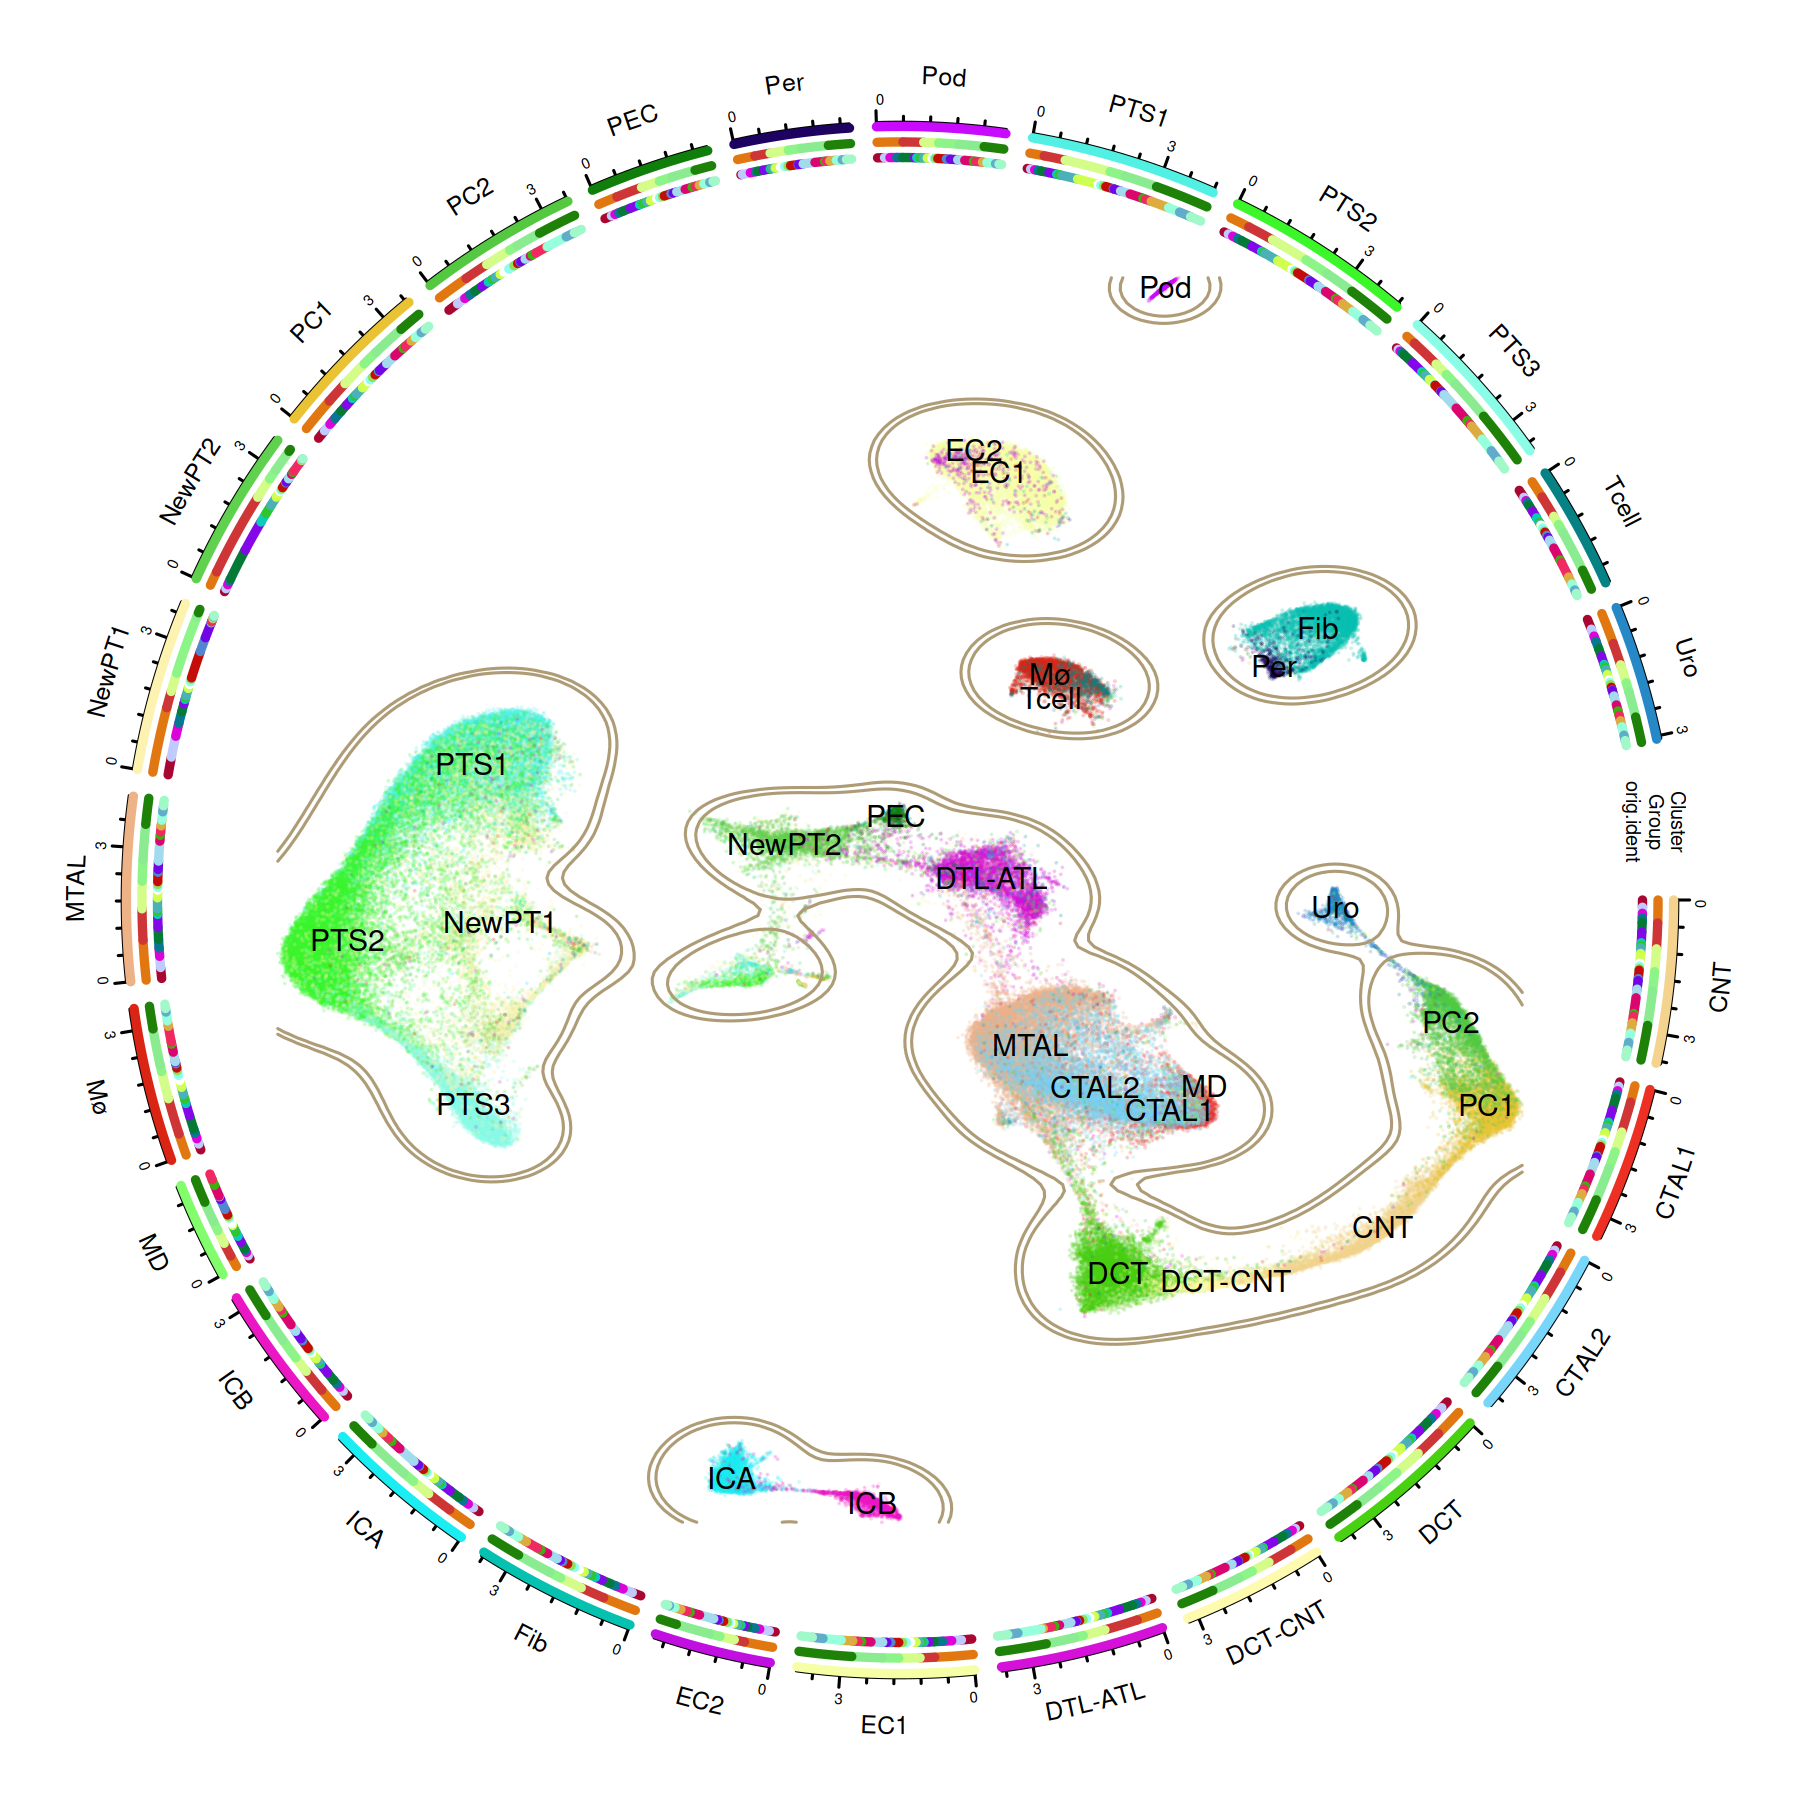
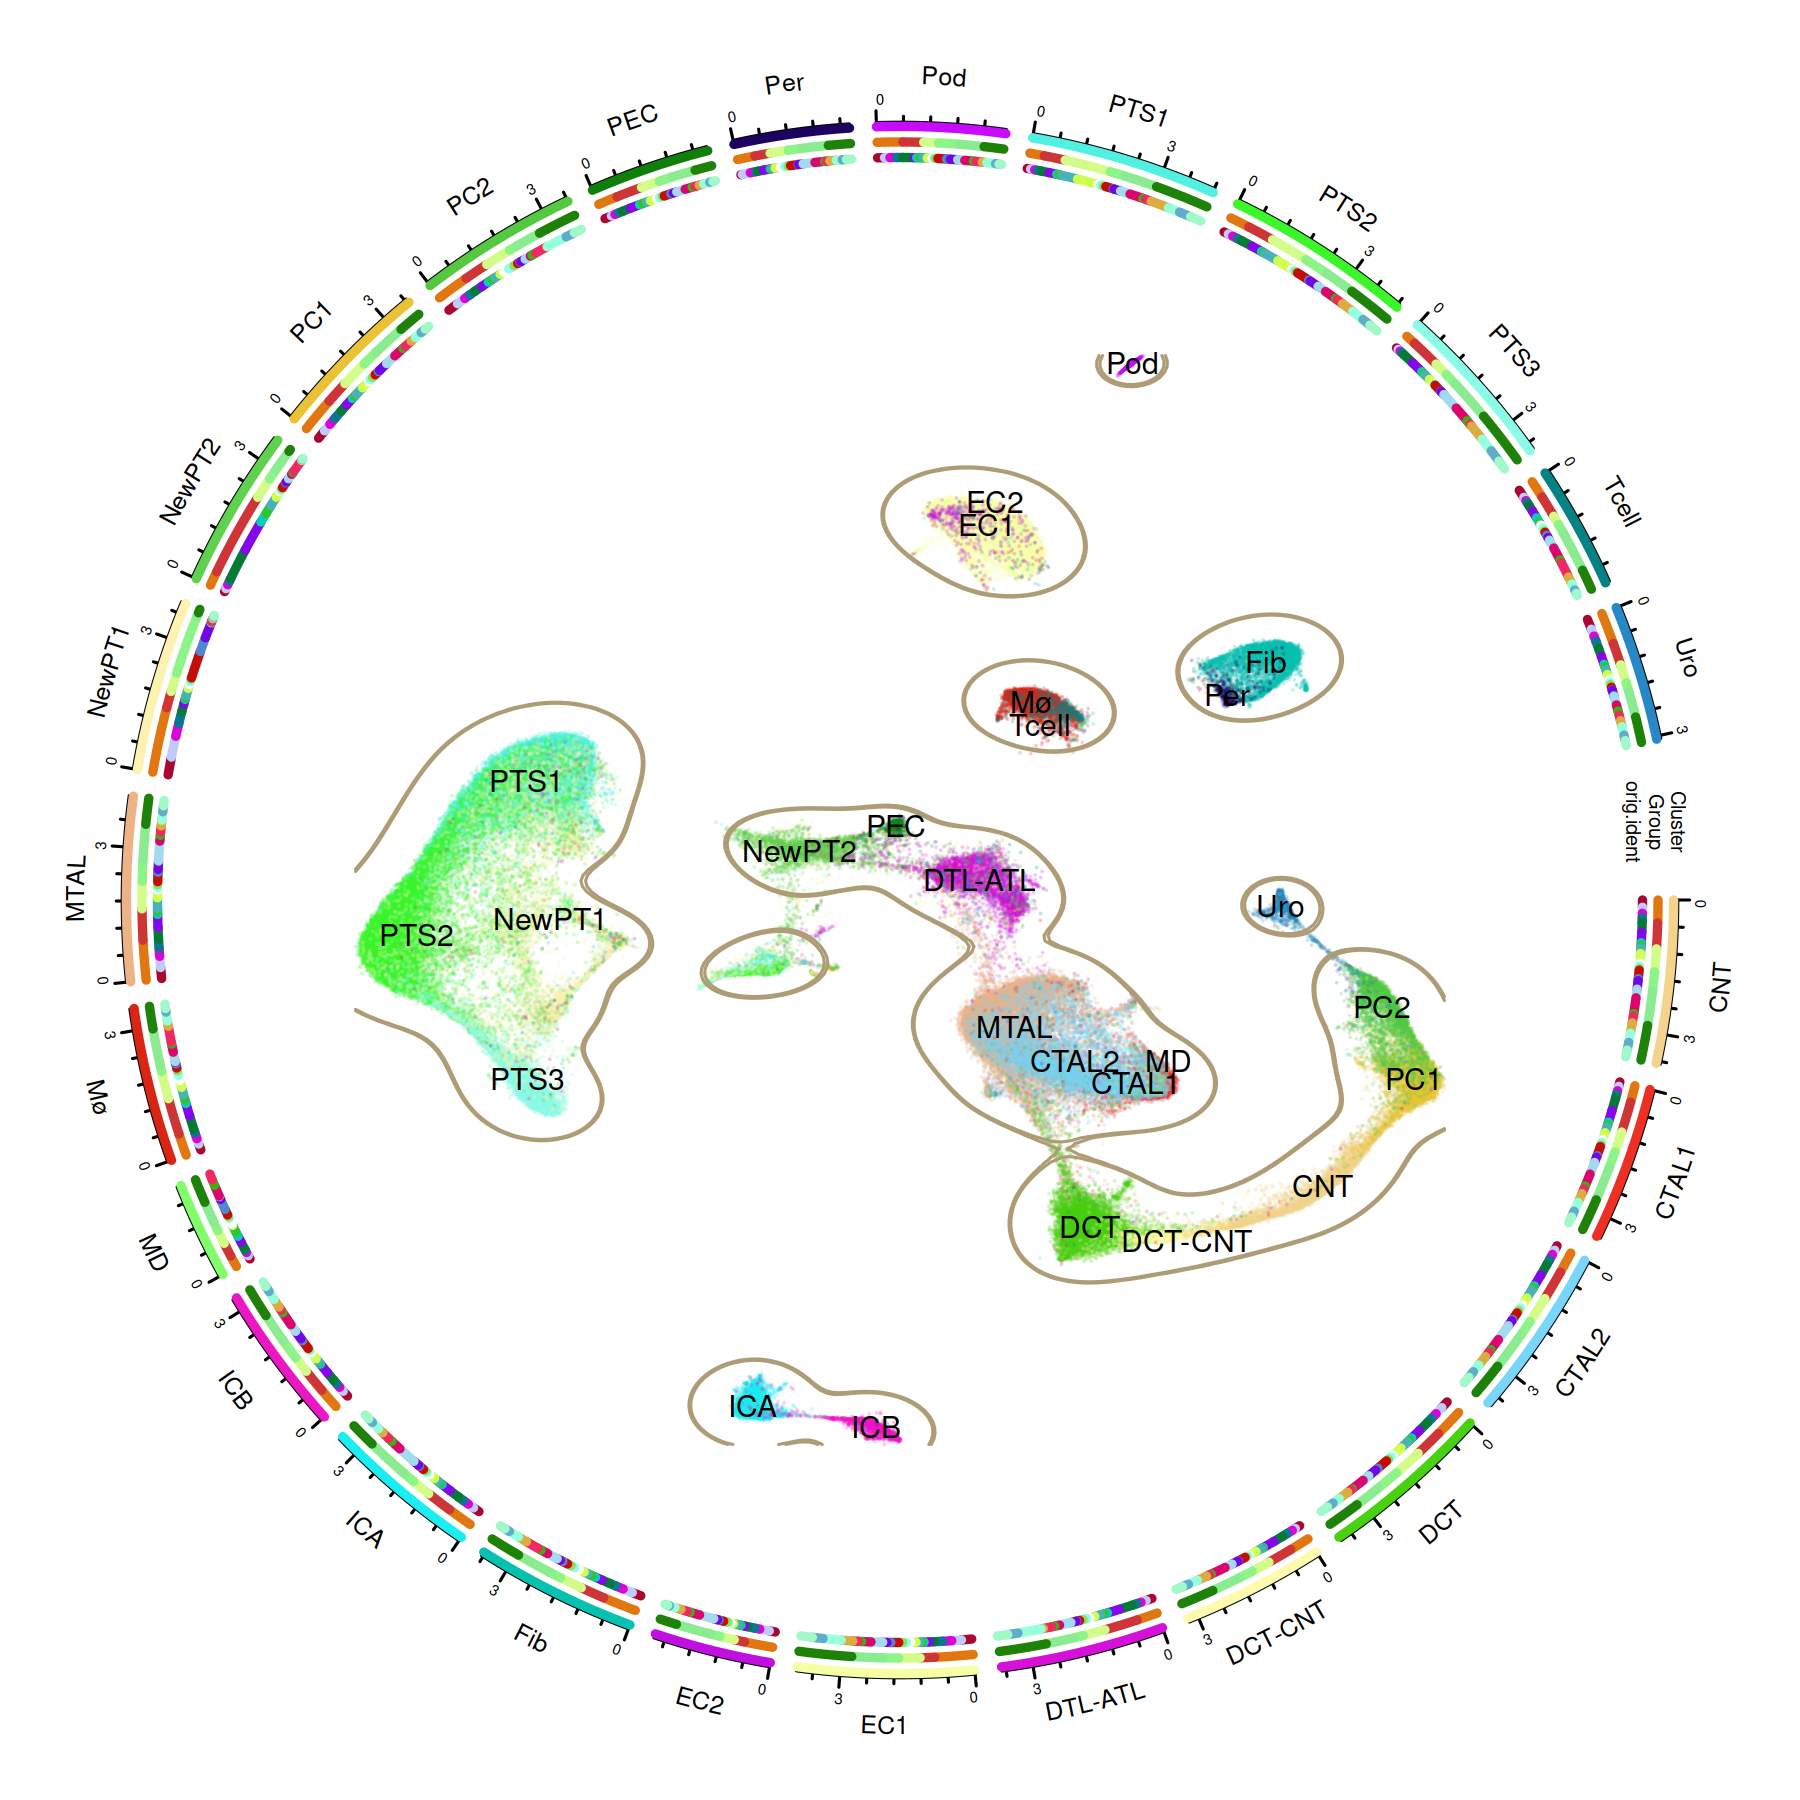
updates

Changed region(s): [[0.1556, 0.1556, 0.84, 0.7467], [0.3422, 0.7467, 0.5289, 0.84]]

diff --git a/README.md b/README.md
@@ -38,7 +38,7 @@ rep_colors<-rand_color(length(names(table(iri.integrated$orig.ident))))
 
 ###plot and save figures
 png(filename =  'circlize_plot.png', width = 6, height = 6,units = 'in', res = 300)
-plot_circlize(circ_data,do.label = T, pt.size = 0.01, col.use = cluster_colors ,bg.color = 'white', kde2d.n = 200, repel = T)
+plot_circlize(circ_data,do.label = T, pt.size = 0.01, col.use = cluster_colors ,bg.color = 'white', kde2d.n = 200, repel = T, label.cex = 0.6)
 add_track(circ_data, group = "Group", colors = group_colors, track_num = 2) ## can change it to one of the columns in the meta data of your seurat object
 add_track(circ_data, group = "orig.ident",colors = rep_colors, track_num = 3) ## can change it to one of the columns in the meta data of your seurat object
 dev.off()
@@ -53,7 +53,17 @@ complex_dotplot_single(seu_obj = iri.integrated, feature = "Havcr1",groupby = "G
 dev.off()
 ```
 ![alt text](https://github.com/HaojiaWu/Plot1cell/blob/master/data/dotplot_single.png) <br />
-plot1cell allows visualization of multiple genes in dotplot format too. Here is an example.
+If the group factor can be classified by another factor, complex_dotplot_single allows splitting the group factor by another group factor too. Here is an example for demo.
+```
+iri.integrated@meta.data$Phase<-plyr::mapvalues(iri.integrated@meta.data$Group, from = levels(iri.integrated@meta.data$Group), to = c(rep("Injury",4), rep("Recovery",2)))
+iri.integrated@meta.data$Phase<-as.character(iri.integrated@meta.data$Phase)
+png(filename =  'dotplot_single_split.png', width = 4, height = 6,units = 'in', res = 100)
+complex_dotplot_single(iri.integrated, feature = "Havcr1",groupby = "Group",splitby = "Phase")
+dev.off()
+![alt text](https://github.com/HaojiaWu/Plot1cell/blob/master/data/dotplot_single_split.png) <br />
+
+```
+plot1cell also allows visualization of multiple genes in dotplot format. Here is an example.
 ```
 png(filename =  'dotplot_multiple.png', width = 10, height = 4,units = 'in', res = 300)
 complex_dotplot_multiple(seu_obj = iri.integrated, features = c("Slc34a1","Slc7a13","Havcr1","Krt20","Vcam1"),groupby = "Group", celltypes = c("PTS1" ,   "PTS2"  ,  "PTS3"  ,  "NewPT1" , "NewPT2"))
@@ -70,6 +80,13 @@ dev.off()
 ```
 ![alt text](https://github.com/HaojiaWu/Plot1cell/blob/master/data/vlnplot_single.png) <br />
 
+Similar to complex_dotplot_single, the complex_vlnplot_single function also allows splitting the group factor by another factor with the argument "splitby".
+```
+png(filename =  'vlnplot_single_split.png', width = 4, height = 6,units = 'in', res = 100)
+complex_vlnplot_single(iri.integrated, feature = "Havcr1", groups = "Group",celltypes   = c("PTS1" ,   "PTS2"  ,  "PTS3"  ,  "NewPT1" , "NewPT2"), splitby = "Phase")
+dev.off()
+```
+![alt text](https://github.com/HaojiaWu/Plot1cell/blob/master/data/vlnplot_single_split.png) <br />
 #### One gene/multiple group factors violin plot:
 ```
 png(filename =  'vlnplot_multiple.png', width = 8, height = 6,units = 'in', res = 300)
@@ -90,7 +107,6 @@ dev.off()
 
 #### Multiple genes/multiple group factors.
 The violin plot will look too messy in this scenario so it is not included in plot1cell. It is highly recommended to use the complex_dot_plot instead. <br />
-For scRNA-seq studies with higher complexity, the complex_vlnplot_single function also allows split the group by another group in the meta data with the argument "split.by". Since the demo dataset doesn't have this complexity, examples are not included here. Users can refer to our recent DKD dataset with multiple treatments/two timepoints (the PCT violin graph in <a href="https://humphreyslab.com/SingleCell/">K.I.T.</a>)
 
 ### 4. Umap geneplot across groups
 ```
